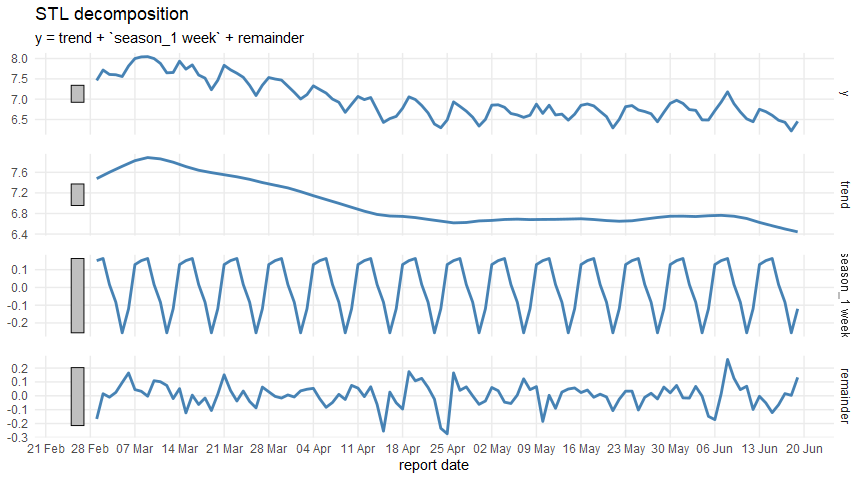
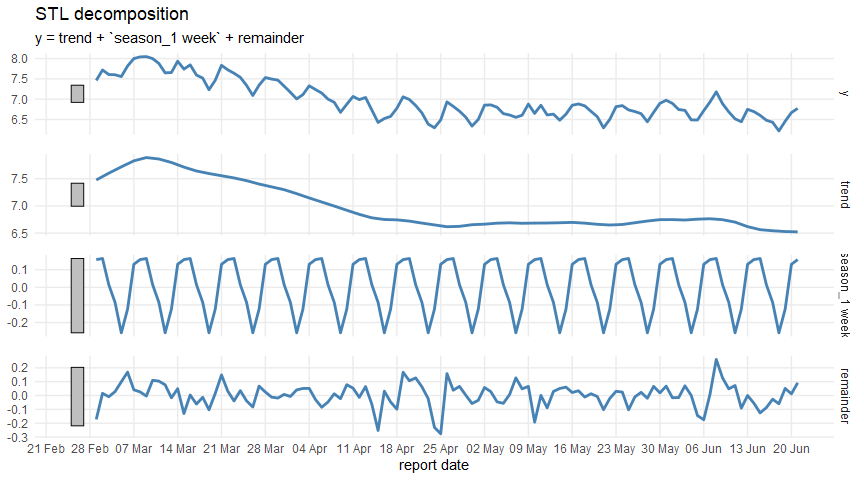
update for 20220622

diff --git a/covid-post-peak-analysis.md b/covid-post-peak-analysis.md
@@ -30,7 +30,7 @@ cases_df <- read_csv(case_data_url) %>%
 
     ## Warning: One or more parsing issues, see `problems()` for details
 
-    ## Rows: 1277568 Columns: 7
+    ## Rows: 1289128 Columns: 7
 
     ## -- Column specification --------------------------------------------------------
     ## Delimiter: ","
@@ -49,7 +49,7 @@ cases_by_dhb_df <- cases_df %>%
   count(report_date, dhb, case_status)
 ```
 
-## Wellington figures up to 19 Jun 2022
+## Wellington figures up to 21 Jun 2022
 
 Including Hutt and Wairarapa as well as CCDHB.
 
@@ -168,7 +168,7 @@ maxima <- dhb_cases_after_transform_stl_df %>%
 
 Looking at raw case numbers, the peak on 9 Mar 2022 was about 6.2 times the lowest recent value.
 
-But when adjusting for the weekly pattern, it was 5.1 times the lowest recent adjusted value, and the trend was about 4.2 times the lowest recent trend line.
+But when adjusting for the weekly pattern, it was 5.1 times the lowest recent adjusted value, and the trend was about 3.9 times the lowest recent trend line.
 
 While the trend might be over-smoothed, the peak coincinded with the strong weekly pattern, suggesting that the apparent difference between the peak and now was exaggerated by weekly differences in reporting.
 
